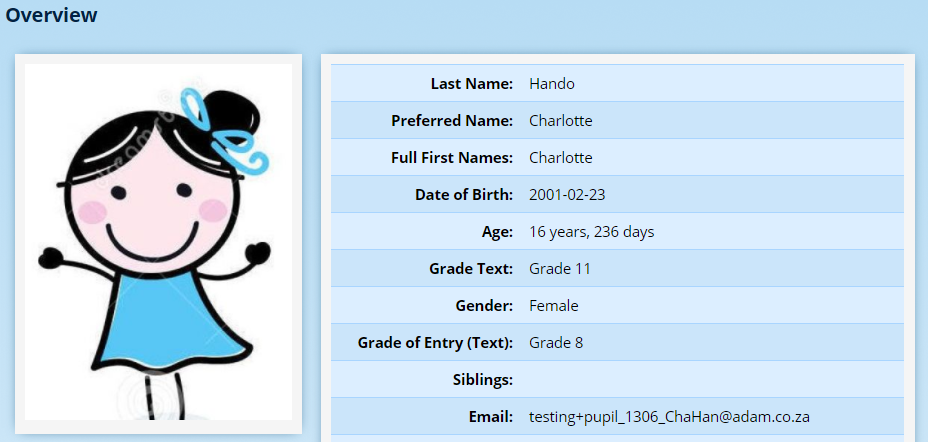
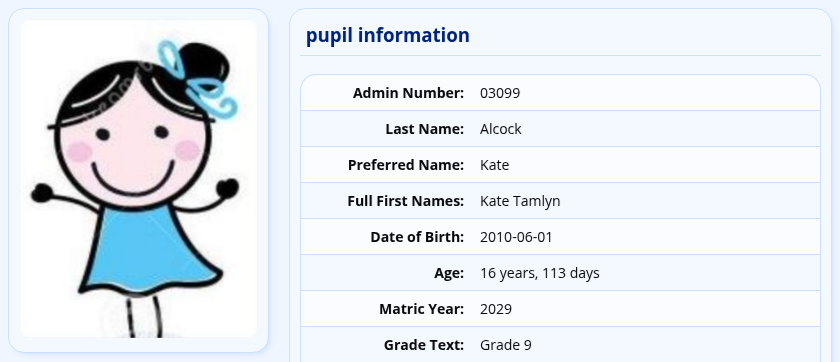
Bring the pupil photograph page up to date and reshoot its screenshots
The page still said that a photograph uploaded into the Photographs
category would not change the picture ADAM displays. It has done so since
the document hook landed, whatever route puts the file there, and deleting
the current photograph now promotes the most recent survivor rather than
leaving a broken image. The document repository page already said as much,
so the two contradicted each other.

Three more things the page had never covered: the ZIP upload, the last
initial naming convention, and the whole Export pupil photographs screen.
The upload page's file-count and size limits get a mention as well, as the
staff photograph page already does.

Five images were re-taken against the current build and two are new. The
old ones predated the present theme, and the switch screen had been
renamed and had gained an Upload a new Photograph link since it was last
photographed. captures.yml records how each was set up, including that the
upload results now stack one card per row because .photo-upload is a grid
with no columns.

diff --git a/docs/pupil-photographs.md b/docs/pupil-photographs.md
@@ -6,11 +6,18 @@ Staff members see this image throughout ADAM. It can also be shown to other fami
 
 ## Naming of Photographs
 
-The photographs should be named in one of three ways that will allow ADAM to identify which pupil it belongs to:
+The photographs should be named in one of the following ways, each of which allows ADAM to work out which pupil the picture belongs to:
 
-1.  adminNumber.jpg
+1.  AdminNumber.jpg
 2.  FirstName LastName.jpg
 3.  LastName FirstName.jpg
+4.  LastName FirstInitial.jpg — the space is optional, so both “Alcock K.jpg” and “AlcockK.jpg” work
+5.  Username.jpg
+
+Capital letters make no difference. A picture is only accepted when exactly one pupil matches its name, so a misspelling, or a name that two pupils in the same dataset share, will leave the picture unmatched.
+
+> [!NOTE]
+> You may also place the photographs, named as above, inside a ZIP file and upload that instead. ADAM opens the archive and matches each picture within it. This is the easiest way to send a whole year group at once, because the archive counts as a single file against the upload limits described below.
 
 ## Uploading Pupil Photographs
 
@@ -18,9 +25,11 @@ Photographs can be uploaded for Pupils by visiting **Pupils → Names and Faces 
 
 ![](assets/screenshots/pupil-photographs/pupil-photographs-01.png)
 
-Make sure to choose which type of pupils (the **Pupil Dataset** option) you are uploading photographs for. The “Current Pupils” option will be selected by default.
+Make sure to choose which type of pupils (the **Choose Pupil Dataset** option) you are uploading photographs for. The “Current Pupils” option will be selected by default, and ADAM only looks for a match within the dataset you choose — a photograph of a pupil who has not yet started will not be matched unless you choose “Admissions”.
 
-Click on the **Choose Files** button. A normal file selection window will appear. Click on a batch of files to upload, bearing in mind the limits that your server has in place. Click on the “Open” button at the bottom (this may differ depending on your web browser)
+The page also states the limits your server has in place: the greatest number of files you may upload at a time and the largest total size. Keep your batches within those figures.
+
+Click on the **Choose Files** button. A normal file selection window will appear. Click on a batch of files to upload. Click on the “Open” button at the bottom (this may differ depending on your web browser)
 
 ![](assets/screenshots/pupil-photographs/pupil-photographs-02.png)
 
@@ -30,7 +39,7 @@ ADAM will now upload the photographs and match them to pupils in your database.
 
 ![](assets/screenshots/pupil-photographs/pupil-photographs-03.png)
 
-Note that one pupil above, Brandon Clark was not matched. In this case, his name has been spelled incorrectly in the photograph. Correct any errors and try again.
+Each picture that was matched is shown with the pupil’s name, which links to their profile. Note that one file above, “Anabel Atkinson.jpg”, was not matched, because the name has been spelled incorrectly. The number in brackets after **NOT FOUND** tells you how many pupils the name matched: zero means ADAM found nobody of that name, and any number above one means the name is shared and ADAM will not guess between them. Correct any errors and try again.
 
 > [!WARNING]
 > You do not have to upload all the files again, just the ones that needed corrections.
@@ -41,6 +50,29 @@ Now, when searching for a pupil or viewing their profile, their picture will be 
 
 ![](assets/screenshots/pupil-photographs/pupil-photographs-06.png)
 
+## Exporting Pupil Photographs
+
+ADAM can hand back the photographs it holds, as a single ZIP file. This is useful when a photographer, a yearbook designer or another system needs the current pictures. Visit **Pupils → Names and Faces → Export pupil photographs**.
+
+![](assets/screenshots/pupil-photographs/pupil-photographs-10.png)
+
+Choose one or more grades in the **Grades** list — hold down the Ctrl key (or the Command key on a Mac) to choose more than one. Then choose how the files inside the archive should be named:
+
+-   **Admin Number**
+-   **Last Name, First Name**
+-   **ADAM Identifier**
+-   **Username**
+
+Click on the **Export photographs** button and your browser will download the archive.
+
+Only the photograph each pupil is currently displaying is exported, one file per pupil. Pupils with no photograph are simply left out, and if none of the grades you chose has a single photograph between them, ADAM will tell you so instead of sending you an empty archive.
+
+> [!NOTE]
+> The **Admin Number**, **Last Name, First Name** and **Username** options produce file names that ADAM can match again, so an exported archive can be sent to a photographer and the retouched version uploaded straight back through the page above. The **ADAM Identifier** option does not — it is intended for another system that stores ADAM’s own reference.
+
+> [!WARNING]
+> This screen needs the **Export pupil photographs** permission, which is separate from the permission to upload photographs. If you cannot see the menu item, ask your ADAM Administrator.
+
 ## Manually Changing Photos
 
 When using the upload feature described above, ADAM will automatically search for a pupil, place the photograph in that pupil’s Document Repository and set the pupil’s current photograph to use that version. However, in some instances, it may be preferable to perform some or all of these operations manually.
@@ -49,6 +81,7 @@ Some examples include:
 
 -   A photograph was incorrectly named with the wrong pupil, but the pupil in question has no new photograph.
 -   The pupil’s photograph won’t upload or match because of accented or other characters in the pupil’s name.
+-   An older photograph already in the repository should be displayed again.
 
 ### Managing Photographs in the Document Repository
 
@@ -57,12 +90,16 @@ Visit the pupil’s information page (**Pupils → Pupil Administration → Pupi
 > [!WARNING]
 > You will need specific permissions to be able to access the Document Repository.
 
-Expand the **Photographs** section and use the **Choose Files** button to select a new photograph. Click on **Upload File…** to upload the file into the Document Repository.
+Expand the **Photographs** section and use the **Choose Files** button to select a new photograph. Click on **Upload files** to upload the file into the Document Repository.
 
-> [!WARNING]
+![](assets/screenshots/pupil-photographs/pupil-photographs-11.png)
+
+> [!NOTE]
 > One might also take this opportunity of removing any incorrect photographs.
 
-Simply uploading a photograph to the document repository will *not* automatically change the photograph that ADAM displays. This must be done in a second step.
+A photograph added to the **Photographs** category becomes the pupil’s display picture as soon as it arrives, whatever route put it there — this screen, the bulk upload described above, or ADAM’s API. The most recently added photograph is the one shown. Equally, deleting the photograph a pupil is currently displaying no longer leaves a broken picture behind: the most recent of their remaining photographs takes its place, and if there are none left they fall back to the generic image.
+
+So you only need the step below when you want ADAM to display a photograph *other* than the newest one. See also [Document Repository](document-repository.md#categories), which describes the two categories that behave this way.
 
 ### Changing Which Photograph ADAM Displays
 
@@ -73,4 +110,6 @@ Navigate to **Pupils → Names and Faces → Switch pupil photograph**. Type in 
 
 ![](assets/screenshots/pupil-photographs/pupil-photographs-09.png)
 
-ADAM will show the current picture at the top and any other pictures that are available at the bottom. This includes the generic image. Simply click on a picture at the bottom to have it selected as the current photograph.
+ADAM will show the current picture under **Current Photograph:** and any other pictures that are available under **Other Photographs:**. This includes the generic image, which is offered first so that you can take a photograph down without deleting it. Simply click on a picture to have it selected as the current photograph.
+
+The **Upload a new Photograph** link at the top of the screen takes you to the upload page described above, and **Choose a different pupil** returns you to the search so that you can move on to the next one.
